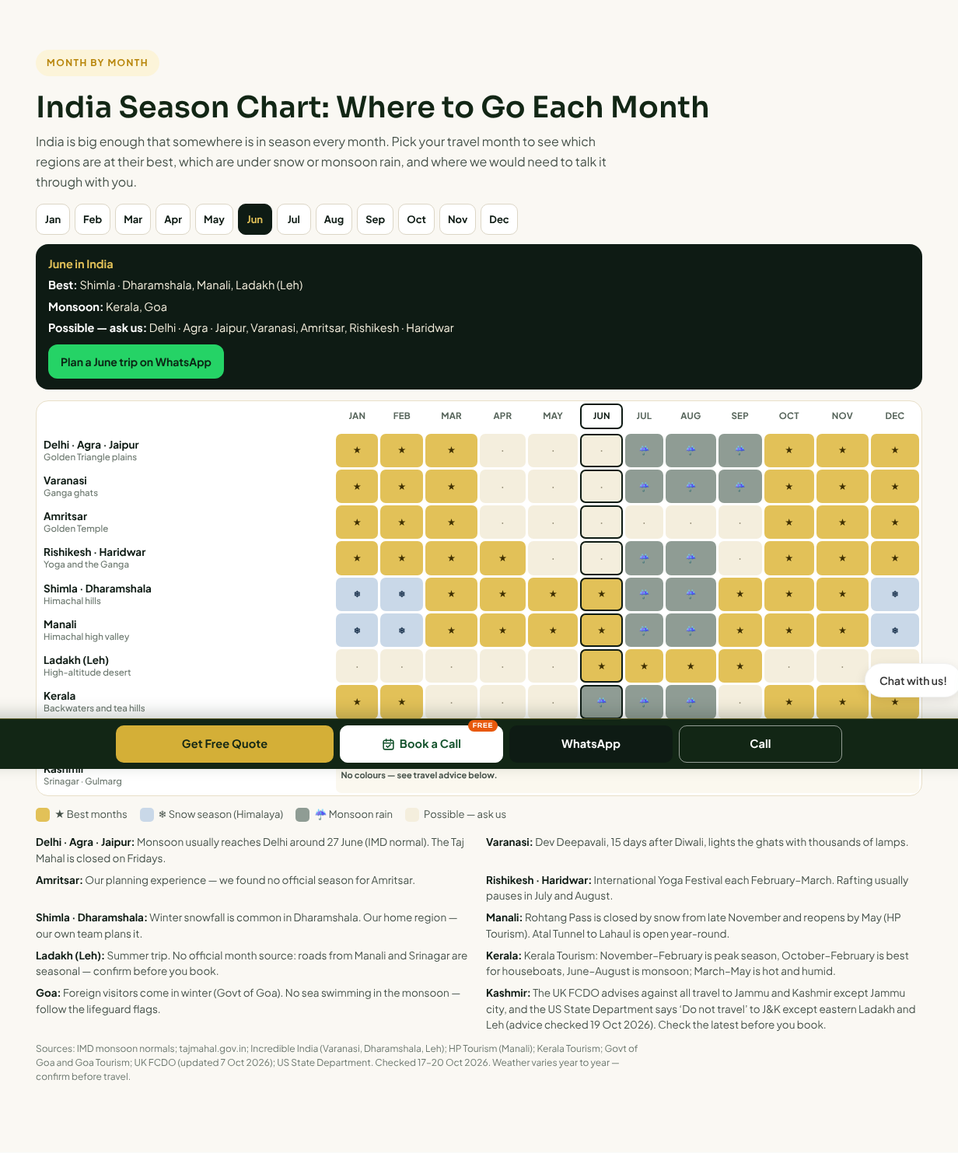
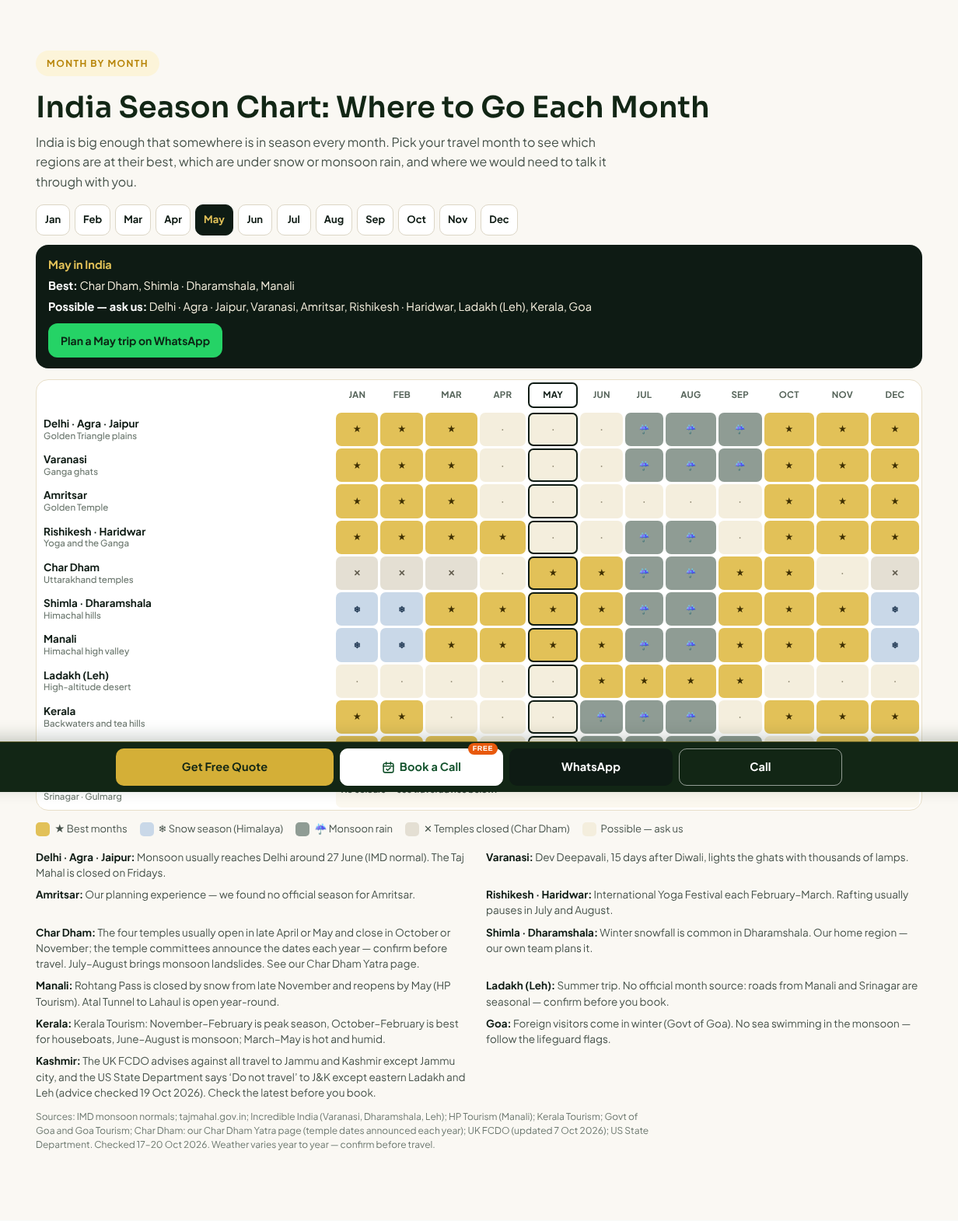
trust: char-dham row on hub season-heatmap (row 26)

Changed region(s): [[0.0, 0.031, 1.0, 0.9616]]

diff --git a/inbound-kit/trust/widgets/season-heatmap/widget.html b/inbound-kit/trust/widgets/season-heatmap/widget.html
@@ -1,1 +1,1 @@
-<!--szt:season-heatmap--><section class="lp-sec alt szt-sh" id="szt-season" style="scroll-margin-top:90px"><style>.szt-sh{font-family:'Plus Jakarta Sans',system-ui,-apple-system,'Segoe UI',sans-serif;color:#0E1B14}.szt-sh *{box-sizing:border-box}.szt-sh p:empty,.szt-sh br{display:none}.szt-sh h2{margin:4px 0 8px}.szt-sh-lead{max-width:64ch;color:#46524A;font-size:16px;line-height:1.6;margin:0 0 16px}.szt-sh-bar{display:flex;flex-wrap:wrap;gap:6px;margin:0 0 12px}.szt-sh-bar[hidden]{display:none}.szt-sh-bar button{min-width:44px;min-height:40px;padding:8px 10px;border-radius:10px;border:1px solid #DCD6C6;background:#fff;color:#0E1B14;font-family:inherit;font-weight:700;font-size:13px;line-height:1;cursor:pointer}.szt-sh-bar button[aria-pressed=true]{background:#0E1B14;color:#E2C158;border-color:#0E1B14}.szt-sh-bar button:focus-visible{outline:2px solid #B8860B;outline-offset:2px}.szt-sh-sum{background:#0E1B14;color:#F4EEDD;border-radius:16px;padding:14px 16px;margin:0 0 14px;font-size:14.5px;line-height:1.6}.szt-sh-sum[hidden]{display:none}.szt-sh-sum strong{color:#E2C158}.szt-sh-sum b{color:#fff}.szt-sh-sum div{margin-top:4px}.szt-sh-sum a{display:inline-flex;align-items:center;min-height:44px;margin-top:10px;padding:10px 16px;border-radius:12px;background:#25D366;color:#0b2414!important;font-weight:800;font-size:14px;text-decoration:none!important}.szt-sh-scroll{overflow-x:auto;-webkit-overflow-scrolling:touch;border:1px solid #E8DFC8;border-radius:16px;background:#fff;max-width:100%}.szt-sh table{border-collapse:separate;border-spacing:3px;width:100%;min-width:640px;margin:0;font-size:13px}.szt-sh th,.szt-sh td{border:0;padding:0;text-align:center;vertical-align:middle}.szt-sh thead th{background:none}.szt-sh thead th{font-size:11.5px;font-weight:800;color:#56645A;padding:6px 0;text-transform:uppercase;letter-spacing:.02em}.szt-sh tbody th{text-align:left;padding:6px 8px 6px 6px;min-width:150px;position:sticky;left:0;background:#fff;z-index:1;font-size:13.5px;line-height:1.25}.szt-sh tbody th small{display:block;font-weight:500;color:#6B776E;font-size:11.5px}.szt-sh tbody td{height:30px;border-radius:7px;font-size:11px;font-weight:800;line-height:30px}.szt-sh td.b,.szt-sh-leg .b{background:#E2C158;color:#3d2e00}.szt-sh td.s,.szt-sh-leg .s{background:#C9D8E8;color:#1d3550}.szt-sh td.m,.szt-sh-leg .m{background:#8F9C94;color:#fff}.szt-sh td.o,.szt-sh-leg .o{background:#F4EEDD;color:#8a826c}.szt-sh td.on,.szt-sh thead th.on{box-shadow:inset 0 0 0 2px #0E1B14}.szt-sh thead th.on{border-radius:7px;color:#0E1B14}.szt-sh-k td{padding:8px 6px!important;text-align:left!important;font-size:12.5px;line-height:1.45;color:#46524A;background:#FBF8EF!important;border-radius:8px}.szt-sh-leg{display:flex;flex-wrap:wrap;gap:8px 16px;margin:12px 0 0;padding:0;list-style:none;font-size:13px;color:#46524A}.szt-sh-leg li{display:flex;align-items:center;gap:6px}.szt-sh-leg i{width:18px;height:18px;border-radius:5px;display:inline-block}.szt-sh-notes{margin:14px 0 0;padding:0;list-style:none;display:grid;grid-template-columns:1fr 1fr;gap:8px 18px}.szt-sh-notes li{font-size:13.5px;line-height:1.5;color:#46524A}.szt-sh-notes b{color:#0E1B14}.szt-sh-src{font-size:12px;line-height:1.5;color:#6B776E;margin:12px 0 0;max-width:90ch}.szt-sh-vh{position:absolute!important;width:1px;height:1px;overflow:hidden;clip:rect(0 0 0 0);white-space:nowrap}@media(max-width:700px){.szt-sh-notes{grid-template-columns:1fr}.szt-sh tbody th{min-width:118px;font-size:12.5px}.szt-sh table{min-width:560px}.szt-sh-bar button{min-width:0;flex:1 0 14%;padding:8px 4px}}</style><div class="lp-wrap"><span class="lp-eyebrow">Month by month</span><h2>India Season Chart: Where to Go Each Month</h2><p class="szt-sh-lead">India is big enough that somewhere is in season every month. Pick your travel month to see which regions are at their best, which are under snow or monsoon rain, and where we would need to talk it through with you.</p><div class="szt-sh-bar" role="group" aria-label="Pick your travel month" hidden><button type="button" data-m="0" aria-pressed="false" aria-label="January">Jan</button><button type="button" data-m="1" aria-pressed="false" aria-label="February">Feb</button><button type="button" data-m="2" aria-pressed="false" aria-label="March">Mar</button><button type="button" data-m="3" aria-pressed="false" aria-label="April">Apr</button><button type="button" data-m="4" aria-pressed="false" aria-label="May">May</button><button type="button" data-m="5" aria-pressed="false" aria-label="June">Jun</button><button type="button" data-m="6" aria-pressed="false" aria-label="July">Jul</button><button type="button" data-m="7" aria-pressed="false" aria-label="August">Aug</button><button type="button" data-m="8" aria-pressed="false" aria-label="September">Sep</button><button type="button" data-m="9" aria-pressed="false" aria-label="October">Oct</button><button type="button" data-m="10" aria-pressed="false" aria-label="November">Nov</button><button type="button" data-m="11" aria-pressed="false" aria-label="December">Dec</button></div><div class="szt-sh-sum" id="szt-sh-sum" aria-live="polite" hidden></div><a id="szt-sh-wa" hidden href="https://wa.me/917087488961?text=Hello%20Suzu%20Travels%2C%20I%20would%20like%20help%20choosing%20the%20best%20months%20for%20my%20India%20trip." target="_blank" rel="noopener" data-base="https://wa.me/917087488961?text=">Plan my trip on WhatsApp</a><div class="szt-sh-scroll" role="region" aria-label="Season chart, scroll sideways" tabindex="0"><table><caption class="szt-sh-vh">Best months to visit regions of India</caption><thead><tr><th scope="col"><span class="szt-sh-vh">Region</span></th><th scope="col" data-m="0">Jan</th><th scope="col" data-m="1">Feb</th><th scope="col" data-m="2">Mar</th><th scope="col" data-m="3">Apr</th><th scope="col" data-m="4">May</th><th scope="col" data-m="5">Jun</th><th scope="col" data-m="6">Jul</th><th scope="col" data-m="7">Aug</th><th scope="col" data-m="8">Sep</th><th scope="col" data-m="9">Oct</th><th scope="col" data-m="10">Nov</th><th scope="col" data-m="11">Dec</th></tr></thead><tbody><tr data-n="Delhi · Agra · Jaipur"><th scope="row">Delhi · Agra · Jaipur<small>Golden Triangle plains</small></th><td class="b" data-m="0" title="Best">★</td><td class="b" data-m="1" title="Best">★</td><td class="b" data-m="2" title="Best">★</td><td class="o" data-m="3" title="Possible — ask us">·</td><td class="o" data-m="4" title="Possible — ask us">·</td><td class="o" data-m="5" title="Possible — ask us">·</td><td class="m" data-m="6" title="Monsoon">☔</td><td class="m" data-m="7" title="Monsoon">☔</td><td class="m" data-m="8" title="Monsoon">☔</td><td class="b" data-m="9" title="Best">★</td><td class="b" data-m="10" title="Best">★</td><td class="b" data-m="11" title="Best">★</td></tr><tr data-n="Varanasi"><th scope="row">Varanasi<small>Ganga ghats</small></th><td class="b" data-m="0" title="Best">★</td><td class="b" data-m="1" title="Best">★</td><td class="b" data-m="2" title="Best">★</td><td class="o" data-m="3" title="Possible — ask us">·</td><td class="o" data-m="4" title="Possible — ask us">·</td><td class="o" data-m="5" title="Possible — ask us">·</td><td class="m" data-m="6" title="Monsoon">☔</td><td class="m" data-m="7" title="Monsoon">☔</td><td class="m" data-m="8" title="Monsoon">☔</td><td class="b" data-m="9" title="Best">★</td><td class="b" data-m="10" title="Best">★</td><td class="b" data-m="11" title="Best">★</td></tr><tr data-n="Amritsar"><th scope="row">Amritsar<small>Golden Temple</small></th><td class="b" data-m="0" title="Best">★</td><td class="b" data-m="1" title="Best">★</td><td class="b" data-m="2" title="Best">★</td><td class="o" data-m="3" title="Possible — ask us">·</td><td class="o" data-m="4" title="Possible — ask us">·</td><td class="o" data-m="5" title="Possible — ask us">·</td><td class="o" data-m="6" title="Possible — ask us">·</td><td class="o" data-m="7" title="Possible — ask us">·</td><td class="o" data-m="8" title="Possible — ask us">·</td><td class="b" data-m="9" title="Best">★</td><td class="b" data-m="10" title="Best">★</td><td class="b" data-m="11" title="Best">★</td></tr><tr data-n="Rishikesh · Haridwar"><th scope="row">Rishikesh · Haridwar<small>Yoga and the Ganga</small></th><td class="b" data-m="0" title="Best">★</td><td class="b" data-m="1" title="Best">★</td><td class="b" data-m="2" title="Best">★</td><td class="b" data-m="3" title="Best">★</td><td class="o" data-m="4" title="Possible — ask us">·</td><td class="o" data-m="5" title="Possible — ask us">·</td><td class="m" data-m="6" title="Monsoon">☔</td><td class="m" data-m="7" title="Monsoon">☔</td><td class="o" data-m="8" title="Possible — ask us">·</td><td class="b" data-m="9" title="Best">★</td><td class="b" data-m="10" title="Best">★</td><td class="b" data-m="11" title="Best">★</td></tr><tr data-n="Shimla · Dharamshala"><th scope="row">Shimla · Dharamshala<small>Himachal hills</small></th><td class="s" data-m="0" title="Snow season">❄</td><td class="s" data-m="1" title="Snow season">❄</td><td class="b" data-m="2" title="Best">★</td><td class="b" data-m="3" title="Best">★</td><td class="b" data-m="4" title="Best">★</td><td class="b" data-m="5" title="Best">★</td><td class="m" data-m="6" title="Monsoon">☔</td><td class="m" data-m="7" title="Monsoon">☔</td><td class="b" data-m="8" title="Best">★</td><td class="b" data-m="9" title="Best">★</td><td class="b" data-m="10" title="Best">★</td><td class="s" data-m="11" title="Snow season">❄</td></tr><tr data-n="Manali"><th scope="row">Manali<small>Himachal high valley</small></th><td class="s" data-m="0" title="Snow season">❄</td><td class="s" data-m="1" title="Snow season">❄</td><td class="b" data-m="2" title="Best">★</td><td class="b" data-m="3" title="Best">★</td><td class="b" data-m="4" title="Best">★</td><td class="b" data-m="5" title="Best">★</td><td class="m" data-m="6" title="Monsoon">☔</td><td class="m" data-m="7" title="Monsoon">☔</td><td class="b" data-m="8" title="Best">★</td><td class="b" data-m="9" title="Best">★</td><td class="b" data-m="10" title="Best">★</td><td class="s" data-m="11" title="Snow season">❄</td></tr><tr data-n="Ladakh (Leh)"><th scope="row">Ladakh (Leh)<small>High-altitude desert</small></th><td class="o" data-m="0" title="Possible — ask us">·</td><td class="o" data-m="1" title="Possible — ask us">·</td><td class="o" data-m="2" title="Possible — ask us">·</td><td class="o" data-m="3" title="Possible — ask us">·</td><td class="o" data-m="4" title="Possible — ask us">·</td><td class="b" data-m="5" title="Best">★</td><td class="b" data-m="6" title="Best">★</td><td class="b" data-m="7" title="Best">★</td><td class="b" data-m="8" title="Best">★</td><td class="o" data-m="9" title="Possible — ask us">·</td><td class="o" data-m="10" title="Possible — ask us">·</td><td class="o" data-m="11" title="Possible — ask us">·</td></tr><tr data-n="Kerala"><th scope="row">Kerala<small>Backwaters and tea hills</small></th><td class="b" data-m="0" title="Best">★</td><td class="b" data-m="1" title="Best">★</td><td class="o" data-m="2" title="Possible — ask us">·</td><td class="o" data-m="3" title="Possible — ask us">·</td><td class="o" data-m="4" title="Possible — ask us">·</td><td class="m" data-m="5" title="Monsoon">☔</td><td class="m" data-m="6" title="Monsoon">☔</td><td class="m" data-m="7" title="Monsoon">☔</td><td class="o" data-m="8" title="Possible — ask us">·</td><td class="b" data-m="9" title="Best">★</td><td class="b" data-m="10" title="Best">★</td><td class="b" data-m="11" title="Best">★</td></tr><tr data-n="Goa"><th scope="row">Goa<small>Beaches</small></th><td class="b" data-m="0" title="Best">★</td><td class="b" data-m="1" title="Best">★</td><td class="b" data-m="2" title="Best">★</td><td class="o" data-m="3" title="Possible — ask us">·</td><td class="o" data-m="4" title="Possible — ask us">·</td><td class="m" data-m="5" title="Monsoon">☔</td><td class="m" data-m="6" title="Monsoon">☔</td><td class="m" data-m="7" title="Monsoon">☔</td><td class="m" data-m="8" title="Monsoon">☔</td><td class="o" data-m="9" title="Possible — ask us">·</td><td class="b" data-m="10" title="Best">★</td><td class="b" data-m="11" title="Best">★</td></tr><tr class="szt-sh-k"><th scope="row">Kashmir<small>Srinagar · Gulmarg</small></th><td colspan="12">No colours — see travel advice below.</td></tr></tbody></table></div><ul class="szt-sh-leg"><li><i class="b"></i>★ Best months</li><li><i class="s"></i>❄ Snow season (Himalaya)</li><li><i class="m"></i>☔ Monsoon rain</li><li><i class="o"></i>Possible — ask us</li></ul><ul class="szt-sh-notes"><li><b>Delhi · Agra · Jaipur:</b> Monsoon usually reaches Delhi around 27 June (IMD normal). The Taj Mahal is closed on Fridays.</li><li><b>Varanasi:</b> Dev Deepavali, 15 days after Diwali, lights the ghats with thousands of lamps.</li><li><b>Amritsar:</b> Our planning experience — we found no official season for Amritsar.</li><li><b>Rishikesh · Haridwar:</b> International Yoga Festival each February–March. Rafting usually pauses in July and August.</li><li><b>Shimla · Dharamshala:</b> Winter snowfall is common in Dharamshala. Our home region — our own team plans it.</li><li><b>Manali:</b> Rohtang Pass is closed by snow from late November and reopens by May (HP Tourism). Atal Tunnel to Lahaul is open year-round.</li><li><b>Ladakh (Leh):</b> Summer trip. No official month source: roads from Manali and Srinagar are seasonal — confirm before you book.</li><li><b>Kerala:</b> Kerala Tourism: November–February is peak season, October–February is best for houseboats, June–August is monsoon; March–May is hot and humid.</li><li><b>Goa:</b> Foreign visitors come in winter (Govt of Goa). No sea swimming in the monsoon — follow the lifeguard flags.</li><li><b>Kashmir:</b> The UK FCDO advises against all travel to Jammu and Kashmir except Jammu city, and the US State Department says ‘Do not travel’ to J&amp;K except eastern Ladakh and Leh (advice checked 19 Oct 2026). Check the latest before you book.</li></ul><p class="szt-sh-src">Sources: IMD monsoon normals; tajmahal.gov.in; Incredible India (Varanasi, Dharamshala, Leh); HP Tourism (Manali); Kerala Tourism; Govt of Goa and Goa Tourism; UK FCDO (updated 7 Oct 2026); US State Department. Checked 17–20 Oct 2026. Weather varies year to year — confirm before travel.</p><script>(function(){var D={"Delhi · Agra · Jaipur":"bbbooommmbbb","Varanasi":"bbbooommmbbb","Amritsar":"bbboooooobbb","Rishikesh · Haridwar":"bbbboommobbb","Shimla · Dharamshala":"ssbbbbmmbbbs","Manali":"ssbbbbmmbbbs","Ladakh (Leh)":"ooooobbbbooo","Kerala":"bbooommmobbb","Goa":"bbboommmmobb"};var F=["January","February","March","April","May","June","July","August","September","October","November","December"];var L={b:"Best",s:"Snow season",m:"Monsoon",o:"Possible — ask us"};var R=document.getElementById("szt-season");if(!R){return;}var bar=R.querySelector(".szt-sh-bar"),sum=document.getElementById("szt-sh-sum"),wa=document.getElementById("szt-sh-wa");if(!bar){return;}if(!sum){return;}function pick(m){var bs=bar.querySelectorAll("button");for(var i=0;i<bs.length;i++){bs[i].setAttribute("aria-pressed",String(i===m));}var cs=R.querySelectorAll("[data-m]");for(var j=0;j<cs.length;j++){if(cs[j].tagName!=="BUTTON"){cs[j].classList.toggle("on",cs[j].getAttribute("data-m")===String(m));}}var g={b:[],s:[],m:[],o:[]};for(var k in D){if(D.hasOwnProperty(k)){g[D[k].charAt(m)].push(k);}}sum.textContent="";var hd=document.createElement("strong");hd.textContent=F[m]+" in India";sum.appendChild(hd);var o=["b","s","m","o"];for(var x=0;x<o.length;x++){if(g[o[x]].length){var dv=document.createElement("div"),bb=document.createElement("b");bb.textContent=L[o[x]]+": ";dv.appendChild(bb);dv.appendChild(document.createTextNode(g[o[x]].join(", ")));sum.appendChild(dv);}}if(wa){var t="Hello Suzu Travels, I am thinking of travelling to India in "+F[m]+". Best for that month on your chart: "+(g.b.join(", ")||"none")+". Can you suggest a plan?";wa.href=wa.getAttribute("data-base")+encodeURIComponent(t);wa.textContent="Plan a "+F[m]+" trip on WhatsApp";sum.appendChild(wa);wa.hidden=false;}}bar.addEventListener("click",function(e){var b=e.target.closest("button");if(b){pick(parseInt(b.getAttribute("data-m"),10));}});bar.hidden=false;sum.hidden=false;pick(new Date().getMonth());})();</script></div></section><!--/szt:season-heatmap-->
+<!--szt:season-heatmap--><section class="lp-sec alt szt-sh" id="szt-season" style="scroll-margin-top:90px"><style>.szt-sh{font-family:'Plus Jakarta Sans',system-ui,-apple-system,'Segoe UI',sans-serif;color:#0E1B14}.szt-sh *{box-sizing:border-box}.szt-sh p:empty,.szt-sh br{display:none}.szt-sh h2{margin:4px 0 8px}.szt-sh-lead{max-width:64ch;color:#46524A;font-size:16px;line-height:1.6;margin:0 0 16px}.szt-sh-bar{display:flex;flex-wrap:wrap;gap:6px;margin:0 0 12px}.szt-sh-bar[hidden]{display:none}.szt-sh-bar button{min-width:44px;min-height:40px;padding:8px 10px;border-radius:10px;border:1px solid #DCD6C6;background:#fff;color:#0E1B14;font-family:inherit;font-weight:700;font-size:13px;line-height:1;cursor:pointer}.szt-sh-bar button[aria-pressed=true]{background:#0E1B14;color:#E2C158;border-color:#0E1B14}.szt-sh-bar button:focus-visible{outline:2px solid #B8860B;outline-offset:2px}.szt-sh-sum{background:#0E1B14;color:#F4EEDD;border-radius:16px;padding:14px 16px;margin:0 0 14px;font-size:14.5px;line-height:1.6}.szt-sh-sum[hidden]{display:none}.szt-sh-sum strong{color:#E2C158}.szt-sh-sum b{color:#fff}.szt-sh-sum div{margin-top:4px}.szt-sh-sum a{display:inline-flex;align-items:center;min-height:44px;margin-top:10px;padding:10px 16px;border-radius:12px;background:#25D366;color:#0b2414!important;font-weight:800;font-size:14px;text-decoration:none!important}.szt-sh-scroll{overflow-x:auto;-webkit-overflow-scrolling:touch;border:1px solid #E8DFC8;border-radius:16px;background:#fff;max-width:100%}.szt-sh table{border-collapse:separate;border-spacing:3px;width:100%;min-width:640px;margin:0;font-size:13px}.szt-sh th,.szt-sh td{border:0;padding:0;text-align:center;vertical-align:middle}.szt-sh thead th{background:none}.szt-sh thead th{font-size:11.5px;font-weight:800;color:#56645A;padding:6px 0;text-transform:uppercase;letter-spacing:.02em}.szt-sh tbody th{text-align:left;padding:6px 8px 6px 6px;min-width:150px;position:sticky;left:0;background:#fff;z-index:1;font-size:13.5px;line-height:1.25}.szt-sh tbody th small{display:block;font-weight:500;color:#6B776E;font-size:11.5px}.szt-sh tbody td{height:30px;border-radius:7px;font-size:11px;font-weight:800;line-height:30px}.szt-sh td.b,.szt-sh-leg .b{background:#E2C158;color:#3d2e00}.szt-sh td.s,.szt-sh-leg .s{background:#C9D8E8;color:#1d3550}.szt-sh td.m,.szt-sh-leg .m{background:#8F9C94;color:#fff}.szt-sh td.o,.szt-sh-leg .o{background:#F4EEDD;color:#8a826c}.szt-sh td.c,.szt-sh-leg .c{background:#E4DFD3;color:#5f5a4c}.szt-sh td.on,.szt-sh thead th.on{box-shadow:inset 0 0 0 2px #0E1B14}.szt-sh thead th.on{border-radius:7px;color:#0E1B14}.szt-sh-k td{padding:8px 6px!important;text-align:left!important;font-size:12.5px;line-height:1.45;color:#46524A;background:#FBF8EF!important;border-radius:8px}.szt-sh-leg{display:flex;flex-wrap:wrap;gap:8px 16px;margin:12px 0 0;padding:0;list-style:none;font-size:13px;color:#46524A}.szt-sh-leg li{display:flex;align-items:center;gap:6px}.szt-sh-leg i{width:18px;height:18px;border-radius:5px;display:inline-block}.szt-sh-notes{margin:14px 0 0;padding:0;list-style:none;display:grid;grid-template-columns:1fr 1fr;gap:8px 18px}.szt-sh-notes li{font-size:13.5px;line-height:1.5;color:#46524A}.szt-sh-notes b{color:#0E1B14}.szt-sh-src{font-size:12px;line-height:1.5;color:#6B776E;margin:12px 0 0;max-width:90ch}.szt-sh-vh{position:absolute!important;width:1px;height:1px;overflow:hidden;clip:rect(0 0 0 0);white-space:nowrap}@media(max-width:700px){.szt-sh-notes{grid-template-columns:1fr}.szt-sh tbody th{min-width:118px;font-size:12.5px}.szt-sh table{min-width:560px}.szt-sh-bar button{min-width:0;flex:1 0 14%;padding:8px 4px}}</style><div class="lp-wrap"><span class="lp-eyebrow">Month by month</span><h2>India Season Chart: Where to Go Each Month</h2><p class="szt-sh-lead">India is big enough that somewhere is in season every month. Pick your travel month to see which regions are at their best, which are under snow or monsoon rain, and where we would need to talk it through with you.</p><div class="szt-sh-bar" role="group" aria-label="Pick your travel month" hidden><button type="button" data-m="0" aria-pressed="false" aria-label="January">Jan</button><button type="button" data-m="1" aria-pressed="false" aria-label="February">Feb</button><button type="button" data-m="2" aria-pressed="false" aria-label="March">Mar</button><button type="button" data-m="3" aria-pressed="false" aria-label="April">Apr</button><button type="button" data-m="4" aria-pressed="false" aria-label="May">May</button><button type="button" data-m="5" aria-pressed="false" aria-label="June">Jun</button><button type="button" data-m="6" aria-pressed="false" aria-label="July">Jul</button><button type="button" data-m="7" aria-pressed="false" aria-label="August">Aug</button><button type="button" data-m="8" aria-pressed="false" aria-label="September">Sep</button><button type="button" data-m="9" aria-pressed="false" aria-label="October">Oct</button><button type="button" data-m="10" aria-pressed="false" aria-label="November">Nov</button><button type="button" data-m="11" aria-pressed="false" aria-label="December">Dec</button></div><div class="szt-sh-sum" id="szt-sh-sum" aria-live="polite" hidden></div><a id="szt-sh-wa" hidden href="https://wa.me/917087488961?text=Hello%20Suzu%20Travels%2C%20I%20would%20like%20help%20choosing%20the%20best%20months%20for%20my%20India%20trip." target="_blank" rel="noopener" data-base="https://wa.me/917087488961?text=">Plan my trip on WhatsApp</a><div class="szt-sh-scroll" role="region" aria-label="Season chart, scroll sideways" tabindex="0"><table><caption class="szt-sh-vh">Best months to visit regions of India</caption><thead><tr><th scope="col"><span class="szt-sh-vh">Region</span></th><th scope="col" data-m="0">Jan</th><th scope="col" data-m="1">Feb</th><th scope="col" data-m="2">Mar</th><th scope="col" data-m="3">Apr</th><th scope="col" data-m="4">May</th><th scope="col" data-m="5">Jun</th><th scope="col" data-m="6">Jul</th><th scope="col" data-m="7">Aug</th><th scope="col" data-m="8">Sep</th><th scope="col" data-m="9">Oct</th><th scope="col" data-m="10">Nov</th><th scope="col" data-m="11">Dec</th></tr></thead><tbody><tr data-n="Delhi · Agra · Jaipur"><th scope="row">Delhi · Agra · Jaipur<small>Golden Triangle plains</small></th><td class="b" data-m="0" title="Best">★</td><td class="b" data-m="1" title="Best">★</td><td class="b" data-m="2" title="Best">★</td><td class="o" data-m="3" title="Possible — ask us">·</td><td class="o" data-m="4" title="Possible — ask us">·</td><td class="o" data-m="5" title="Possible — ask us">·</td><td class="m" data-m="6" title="Monsoon">☔</td><td class="m" data-m="7" title="Monsoon">☔</td><td class="m" data-m="8" title="Monsoon">☔</td><td class="b" data-m="9" title="Best">★</td><td class="b" data-m="10" title="Best">★</td><td class="b" data-m="11" title="Best">★</td></tr><tr data-n="Varanasi"><th scope="row">Varanasi<small>Ganga ghats</small></th><td class="b" data-m="0" title="Best">★</td><td class="b" data-m="1" title="Best">★</td><td class="b" data-m="2" title="Best">★</td><td class="o" data-m="3" title="Possible — ask us">·</td><td class="o" data-m="4" title="Possible — ask us">·</td><td class="o" data-m="5" title="Possible — ask us">·</td><td class="m" data-m="6" title="Monsoon">☔</td><td class="m" data-m="7" title="Monsoon">☔</td><td class="m" data-m="8" title="Monsoon">☔</td><td class="b" data-m="9" title="Best">★</td><td class="b" data-m="10" title="Best">★</td><td class="b" data-m="11" title="Best">★</td></tr><tr data-n="Amritsar"><th scope="row">Amritsar<small>Golden Temple</small></th><td class="b" data-m="0" title="Best">★</td><td class="b" data-m="1" title="Best">★</td><td class="b" data-m="2" title="Best">★</td><td class="o" data-m="3" title="Possible — ask us">·</td><td class="o" data-m="4" title="Possible — ask us">·</td><td class="o" data-m="5" title="Possible — ask us">·</td><td class="o" data-m="6" title="Possible — ask us">·</td><td class="o" data-m="7" title="Possible — ask us">·</td><td class="o" data-m="8" title="Possible — ask us">·</td><td class="b" data-m="9" title="Best">★</td><td class="b" data-m="10" title="Best">★</td><td class="b" data-m="11" title="Best">★</td></tr><tr data-n="Rishikesh · Haridwar"><th scope="row">Rishikesh · Haridwar<small>Yoga and the Ganga</small></th><td class="b" data-m="0" title="Best">★</td><td class="b" data-m="1" title="Best">★</td><td class="b" data-m="2" title="Best">★</td><td class="b" data-m="3" title="Best">★</td><td class="o" data-m="4" title="Possible — ask us">·</td><td class="o" data-m="5" title="Possible — ask us">·</td><td class="m" data-m="6" title="Monsoon">☔</td><td class="m" data-m="7" title="Monsoon">☔</td><td class="o" data-m="8" title="Possible — ask us">·</td><td class="b" data-m="9" title="Best">★</td><td class="b" data-m="10" title="Best">★</td><td class="b" data-m="11" title="Best">★</td></tr><tr data-n="Char Dham"><th scope="row">Char Dham<small>Uttarakhand temples</small></th><td class="c" data-m="0" title="Temples closed">✕</td><td class="c" data-m="1" title="Temples closed">✕</td><td class="c" data-m="2" title="Temples closed">✕</td><td class="o" data-m="3" title="Possible — ask us">·</td><td class="b" data-m="4" title="Best">★</td><td class="b" data-m="5" title="Best">★</td><td class="m" data-m="6" title="Monsoon">☔</td><td class="m" data-m="7" title="Monsoon">☔</td><td class="b" data-m="8" title="Best">★</td><td class="b" data-m="9" title="Best">★</td><td class="o" data-m="10" title="Possible — ask us">·</td><td class="c" data-m="11" title="Temples closed">✕</td></tr><tr data-n="Shimla · Dharamshala"><th scope="row">Shimla · Dharamshala<small>Himachal hills</small></th><td class="s" data-m="0" title="Snow season">❄</td><td class="s" data-m="1" title="Snow season">❄</td><td class="b" data-m="2" title="Best">★</td><td class="b" data-m="3" title="Best">★</td><td class="b" data-m="4" title="Best">★</td><td class="b" data-m="5" title="Best">★</td><td class="m" data-m="6" title="Monsoon">☔</td><td class="m" data-m="7" title="Monsoon">☔</td><td class="b" data-m="8" title="Best">★</td><td class="b" data-m="9" title="Best">★</td><td class="b" data-m="10" title="Best">★</td><td class="s" data-m="11" title="Snow season">❄</td></tr><tr data-n="Manali"><th scope="row">Manali<small>Himachal high valley</small></th><td class="s" data-m="0" title="Snow season">❄</td><td class="s" data-m="1" title="Snow season">❄</td><td class="b" data-m="2" title="Best">★</td><td class="b" data-m="3" title="Best">★</td><td class="b" data-m="4" title="Best">★</td><td class="b" data-m="5" title="Best">★</td><td class="m" data-m="6" title="Monsoon">☔</td><td class="m" data-m="7" title="Monsoon">☔</td><td class="b" data-m="8" title="Best">★</td><td class="b" data-m="9" title="Best">★</td><td class="b" data-m="10" title="Best">★</td><td class="s" data-m="11" title="Snow season">❄</td></tr><tr data-n="Ladakh (Leh)"><th scope="row">Ladakh (Leh)<small>High-altitude desert</small></th><td class="o" data-m="0" title="Possible — ask us">·</td><td class="o" data-m="1" title="Possible — ask us">·</td><td class="o" data-m="2" title="Possible — ask us">·</td><td class="o" data-m="3" title="Possible — ask us">·</td><td class="o" data-m="4" title="Possible — ask us">·</td><td class="b" data-m="5" title="Best">★</td><td class="b" data-m="6" title="Best">★</td><td class="b" data-m="7" title="Best">★</td><td class="b" data-m="8" title="Best">★</td><td class="o" data-m="9" title="Possible — ask us">·</td><td class="o" data-m="10" title="Possible — ask us">·</td><td class="o" data-m="11" title="Possible — ask us">·</td></tr><tr data-n="Kerala"><th scope="row">Kerala<small>Backwaters and tea hills</small></th><td class="b" data-m="0" title="Best">★</td><td class="b" data-m="1" title="Best">★</td><td class="o" data-m="2" title="Possible — ask us">·</td><td class="o" data-m="3" title="Possible — ask us">·</td><td class="o" data-m="4" title="Possible — ask us">·</td><td class="m" data-m="5" title="Monsoon">☔</td><td class="m" data-m="6" title="Monsoon">☔</td><td class="m" data-m="7" title="Monsoon">☔</td><td class="o" data-m="8" title="Possible — ask us">·</td><td class="b" data-m="9" title="Best">★</td><td class="b" data-m="10" title="Best">★</td><td class="b" data-m="11" title="Best">★</td></tr><tr data-n="Goa"><th scope="row">Goa<small>Beaches</small></th><td class="b" data-m="0" title="Best">★</td><td class="b" data-m="1" title="Best">★</td><td class="b" data-m="2" title="Best">★</td><td class="o" data-m="3" title="Possible — ask us">·</td><td class="o" data-m="4" title="Possible — ask us">·</td><td class="m" data-m="5" title="Monsoon">☔</td><td class="m" data-m="6" title="Monsoon">☔</td><td class="m" data-m="7" title="Monsoon">☔</td><td class="m" data-m="8" title="Monsoon">☔</td><td class="o" data-m="9" title="Possible — ask us">·</td><td class="b" data-m="10" title="Best">★</td><td class="b" data-m="11" title="Best">★</td></tr><tr class="szt-sh-k"><th scope="row">Kashmir<small>Srinagar · Gulmarg</small></th><td colspan="12">No colours — see travel advice below.</td></tr></tbody></table></div><ul class="szt-sh-leg"><li><i class="b"></i>★ Best months</li><li><i class="s"></i>❄ Snow season (Himalaya)</li><li><i class="m"></i>☔ Monsoon rain</li><li><i class="c"></i>✕ Temples closed (Char Dham)</li><li><i class="o"></i>Possible — ask us</li></ul><ul class="szt-sh-notes"><li><b>Delhi · Agra · Jaipur:</b> Monsoon usually reaches Delhi around 27 June (IMD normal). The Taj Mahal is closed on Fridays.</li><li><b>Varanasi:</b> Dev Deepavali, 15 days after Diwali, lights the ghats with thousands of lamps.</li><li><b>Amritsar:</b> Our planning experience — we found no official season for Amritsar.</li><li><b>Rishikesh · Haridwar:</b> International Yoga Festival each February–March. Rafting usually pauses in July and August.</li><li><b>Char Dham:</b> The four temples usually open in late April or May and close in October or November; the temple committees announce the dates each year — confirm before travel. July–August brings monsoon landslides. See <a href="/char-dham-yatra-for-nri/">our Char Dham Yatra page</a>.</li><li><b>Shimla · Dharamshala:</b> Winter snowfall is common in Dharamshala. Our home region — our own team plans it.</li><li><b>Manali:</b> Rohtang Pass is closed by snow from late November and reopens by May (HP Tourism). Atal Tunnel to Lahaul is open year-round.</li><li><b>Ladakh (Leh):</b> Summer trip. No official month source: roads from Manali and Srinagar are seasonal — confirm before you book.</li><li><b>Kerala:</b> Kerala Tourism: November–February is peak season, October–February is best for houseboats, June–August is monsoon; March–May is hot and humid.</li><li><b>Goa:</b> Foreign visitors come in winter (Govt of Goa). No sea swimming in the monsoon — follow the lifeguard flags.</li><li><b>Kashmir:</b> The UK FCDO advises against all travel to Jammu and Kashmir except Jammu city, and the US State Department says ‘Do not travel’ to J&amp;K except eastern Ladakh and Leh (advice checked 19 Oct 2026). Check the latest before you book.</li></ul><p class="szt-sh-src">Sources: IMD monsoon normals; tajmahal.gov.in; Incredible India (Varanasi, Dharamshala, Leh); HP Tourism (Manali); Kerala Tourism; Govt of Goa and Goa Tourism; Char Dham: our Char Dham Yatra page (temple dates announced each year); UK FCDO (updated 7 Oct 2026); US State Department. Checked 17–20 Oct 2026. Weather varies year to year — confirm before travel.</p><script>(function(){var D={"Delhi · Agra · Jaipur":"bbbooommmbbb","Varanasi":"bbbooommmbbb","Amritsar":"bbboooooobbb","Rishikesh · Haridwar":"bbbboommobbb","Char Dham":"cccobbmmbboc","Shimla · Dharamshala":"ssbbbbmmbbbs","Manali":"ssbbbbmmbbbs","Ladakh (Leh)":"ooooobbbbooo","Kerala":"bbooommmobbb","Goa":"bbboommmmobb"};var F=["January","February","March","April","May","June","July","August","September","October","November","December"];var L={b:"Best",s:"Snow season",m:"Monsoon",o:"Possible — ask us",c:"Temples closed"};var R=document.getElementById("szt-season");if(!R){return;}var bar=R.querySelector(".szt-sh-bar"),sum=document.getElementById("szt-sh-sum"),wa=document.getElementById("szt-sh-wa");if(!bar){return;}if(!sum){return;}function pick(m){var bs=bar.querySelectorAll("button");for(var i=0;i<bs.length;i++){bs[i].setAttribute("aria-pressed",String(i===m));}var cs=R.querySelectorAll("[data-m]");for(var j=0;j<cs.length;j++){if(cs[j].tagName!=="BUTTON"){cs[j].classList.toggle("on",cs[j].getAttribute("data-m")===String(m));}}var g={b:[],s:[],m:[],c:[],o:[]};for(var k in D){if(D.hasOwnProperty(k)){g[D[k].charAt(m)].push(k);}}sum.textContent="";var hd=document.createElement("strong");hd.textContent=F[m]+" in India";sum.appendChild(hd);var o=["b","s","m","c","o"];for(var x=0;x<o.length;x++){if(g[o[x]].length){var dv=document.createElement("div"),bb=document.createElement("b");bb.textContent=L[o[x]]+": ";dv.appendChild(bb);dv.appendChild(document.createTextNode(g[o[x]].join(", ")));sum.appendChild(dv);}}if(wa){var t="Hello Suzu Travels, I am thinking of travelling to India in "+F[m]+". Best for that month on your chart: "+(g.b.join(", ")||"none")+". Can you suggest a plan?";wa.href=wa.getAttribute("data-base")+encodeURIComponent(t);wa.textContent="Plan a "+F[m]+" trip on WhatsApp";sum.appendChild(wa);wa.hidden=false;}}bar.addEventListener("click",function(e){var b=e.target.closest("button");if(b){pick(parseInt(b.getAttribute("data-m"),10));}});bar.hidden=false;sum.hidden=false;pick(new Date().getMonth());})();</script></div></section><!--/szt:season-heatmap-->

diff --git a/inbound-kit/trust/widgets/season-heatmap/build.py b/inbound-kit/trust/widgets/season-heatmap/build.py
@@ -6,12 +6,12 @@ Months not covered by a source are 'possible — ask us' (never 'avoid' without 
 dated advisory line. Inline JS: no ampersand, no double slash; works with JS off (full grid, toolbar hidden)."""
 import os, json
 
-B, S, M, O = 'b', 's', 'm', 'o'   # best / snow season / monsoon / possible — ask us
+B, S, M, O, C = 'b', 's', 'm', 'o', 'c'   # best / snow season / monsoon / possible — ask us / temples closed (Char Dham only)
 MON = ['Jan', 'Feb', 'Mar', 'Apr', 'May', 'Jun', 'Jul', 'Aug', 'Sep', 'Oct', 'Nov', 'Dec']
 FULL = ['January', 'February', 'March', 'April', 'May', 'June', 'July', 'August', 'September', 'October', 'November', 'December']
 
-def row(best=(), snow=(), mon=()):
-    return ''.join(B if m in best else S if m in snow else M if m in mon else O for m in range(1, 13))
+def row(best=(), snow=(), mon=(), closed=()):
+    return ''.join(B if m in best else S if m in snow else M if m in mon else C if m in closed else O for m in range(1, 13))
 
 ROWS = [
  ('Delhi · Agra · Jaipur', 'Golden Triangle plains', row(best=(10, 11, 12, 1, 2, 3), mon=(7, 8, 9)),
@@ -22,6 +22,9 @@ ROWS = [
   'Our planning experience — we found no official season for Amritsar.'),
  ('Rishikesh · Haridwar', 'Yoga and the Ganga', row(best=(10, 11, 12, 1, 2, 3, 4), mon=(7, 8)),
   'International Yoga Festival each February–March. Rafting usually pauses in July and August.'),
+ ('Char Dham', 'Uttarakhand temples', row(best=(5, 6, 9, 10), mon=(7, 8), closed=(12, 1, 2, 3)),
+  'The four temples usually open in late April or May and close in October or November; the temple committees announce the dates each year — '
+  'confirm before travel. July–August brings monsoon landslides. See <a href="/char-dham-yatra-for-nri/">our Char Dham Yatra page</a>.'),
  ('Shimla · Dharamshala', 'Himachal hills', row(best=(3, 4, 5, 6, 9, 10, 11), snow=(12, 1, 2), mon=(7, 8)),
   'Winter snowfall is common in Dharamshala. Our home region — our own team plans it.'),
  ('Manali', 'Himachal high valley', row(best=(3, 4, 5, 6, 9, 10, 11), snow=(12, 1, 2), mon=(7, 8)),
@@ -36,9 +39,9 @@ ROWS = [
 KASHMIR = ('The UK FCDO advises against all travel to Jammu and Kashmir except Jammu city, and the US State Department says '
            '‘Do not travel’ to J&amp;K except eastern Ladakh and Leh (advice checked 19 Oct 2026). Check the latest before you book.')
 SRC = ('Sources: IMD monsoon normals; tajmahal.gov.in; Incredible India (Varanasi, Dharamshala, Leh); HP Tourism (Manali); '
-       'Kerala Tourism; Govt of Goa and Goa Tourism; UK FCDO (updated 7 Oct 2026); US State Department. Checked 17–20 Oct 2026. '
+       'Kerala Tourism; Govt of Goa and Goa Tourism; Char Dham: our Char Dham Yatra page (temple dates announced each year); UK FCDO (updated 7 Oct 2026); US State Department. Checked 17–20 Oct 2026. '
        'Weather varies year to year — confirm before travel.')
-LBL = {B: 'Best', S: 'Snow season', M: 'Monsoon', O: 'Possible — ask us'}
+LBL = {B: 'Best', S: 'Snow season', M: 'Monsoon', O: 'Possible — ask us', C: 'Temples closed'}
 WA = 'https://wa.me/917087488961?text='
 WA_DEFAULT = 'Hello%20Suzu%20Travels%2C%20I%20would%20like%20help%20choosing%20the%20best%20months%20for%20my%20India%20trip.'
 
@@ -59,7 +62,7 @@ CSS = (".szt-sh{font-family:'Plus Jakarta Sans',system-ui,-apple-system,'Segoe U
        ".szt-sh tbody th{text-align:left;padding:6px 8px 6px 6px;min-width:150px;position:sticky;left:0;background:#fff;z-index:1;font-size:13.5px;line-height:1.25}"
        ".szt-sh tbody th small{display:block;font-weight:500;color:#6B776E;font-size:11.5px}"
        ".szt-sh tbody td{height:30px;border-radius:7px;font-size:11px;font-weight:800;line-height:30px}"
-       ".szt-sh td.b,.szt-sh-leg .b{background:#E2C158;color:#3d2e00}.szt-sh td.s,.szt-sh-leg .s{background:#C9D8E8;color:#1d3550}.szt-sh td.m,.szt-sh-leg .m{background:#8F9C94;color:#fff}.szt-sh td.o,.szt-sh-leg .o{background:#F4EEDD;color:#8a826c}"
+       ".szt-sh td.b,.szt-sh-leg .b{background:#E2C158;color:#3d2e00}.szt-sh td.s,.szt-sh-leg .s{background:#C9D8E8;color:#1d3550}.szt-sh td.m,.szt-sh-leg .m{background:#8F9C94;color:#fff}.szt-sh td.o,.szt-sh-leg .o{background:#F4EEDD;color:#8a826c}.szt-sh td.c,.szt-sh-leg .c{background:#E4DFD3;color:#5f5a4c}"
        ".szt-sh td.on,.szt-sh thead th.on{box-shadow:inset 0 0 0 2px #0E1B14}.szt-sh thead th.on{border-radius:7px;color:#0E1B14}"
        ".szt-sh-k td{padding:8px 6px!important;text-align:left!important;font-size:12.5px;line-height:1.45;color:#46524A;background:#FBF8EF!important;border-radius:8px}"
        ".szt-sh-leg{display:flex;flex-wrap:wrap;gap:8px 16px;margin:12px 0 0;padding:0;list-style:none;font-size:13px;color:#46524A}"
@@ -71,7 +74,7 @@ CSS = (".szt-sh{font-family:'Plus Jakarta Sans',system-ui,-apple-system,'Segoe U
        "@media(max-width:700px){.szt-sh-notes{grid-template-columns:1fr}.szt-sh tbody th{min-width:118px;font-size:12.5px}.szt-sh table{min-width:560px}.szt-sh-bar button{min-width:0;flex:1 0 14%;padding:8px 4px}}")
 
 def cell(c, m):
-    return '<td class="%s" data-m="%d" title="%s">%s</td>' % (c, m, LBL[c], {B: '\u2605', S: '\u2744', M: '\u2614', O: '\u00b7'}[c])
+    return '<td class="%s" data-m="%d" title="%s">%s</td>' % (c, m, LBL[c], {B: '\u2605', S: '\u2744', M: '\u2614', O: '\u00b7', C: '\u2715'}[c])
 
 def html():
     head = '<thead><tr><th scope="col"><span class="szt-sh-vh">Region</span></th>' + ''.join(
@@ -85,18 +88,18 @@ def html():
     summ = ('<div class="szt-sh-sum" id="szt-sh-sum" aria-live="polite" hidden></div>'
             '<a id="szt-sh-wa" hidden href="' + WA + WA_DEFAULT + '" target="_blank" rel="noopener" data-base="' + WA + '">Plan my trip on WhatsApp</a>')
     leg = ('<ul class="szt-sh-leg"><li><i class="b"></i>★ Best months</li><li><i class="s"></i>❄ Snow season (Himalaya)</li>'
-           '<li><i class="m"></i>☔ Monsoon rain</li><li><i class="o"></i>Possible — ask us</li></ul>')
+           '<li><i class="m"></i>☔ Monsoon rain</li><li><i class="c"></i>✕ Temples closed (Char Dham)</li><li><i class="o"></i>Possible — ask us</li></ul>')
     notes = '<ul class="szt-sh-notes">' + ''.join('<li><b>%s:</b> %s</li>' % (n, t) for n, _, _, t in ROWS) + '<li><b>Kashmir:</b> ' + KASHMIR + '</li></ul>'
     data = json.dumps({n: r for n, _, r, _ in ROWS}, ensure_ascii=False, separators=(',', ':'))
     js = ('<script>(function(){var D=' + data + ';var F=' + json.dumps(FULL, separators=(',', ':')) + ';'
-          'var L={b:"Best",s:"Snow season",m:"Monsoon",o:"Possible — ask us"};'
+          'var L={b:"Best",s:"Snow season",m:"Monsoon",o:"Possible — ask us",c:"Temples closed"};'
           'var R=document.getElementById("szt-season");if(!R){return;}'
           'var bar=R.querySelector(".szt-sh-bar"),sum=document.getElementById("szt-sh-sum"),wa=document.getElementById("szt-sh-wa");'
           'if(!bar){return;}if(!sum){return;}'
           'function pick(m){var bs=bar.querySelectorAll("button");for(var i=0;i<bs.length;i++){bs[i].setAttribute("aria-pressed",String(i===m));}'
           'var cs=R.querySelectorAll("[data-m]");for(var j=0;j<cs.length;j++){if(cs[j].tagName!=="BUTTON"){cs[j].classList.toggle("on",cs[j].getAttribute("data-m")===String(m));}}'
-          'var g={b:[],s:[],m:[],o:[]};for(var k in D){if(D.hasOwnProperty(k)){g[D[k].charAt(m)].push(k);}}'
-          'sum.textContent="";var hd=document.createElement("strong");hd.textContent=F[m]+" in India";sum.appendChild(hd);var o=["b","s","m","o"];'
+          'var g={b:[],s:[],m:[],c:[],o:[]};for(var k in D){if(D.hasOwnProperty(k)){g[D[k].charAt(m)].push(k);}}'
+          'sum.textContent="";var hd=document.createElement("strong");hd.textContent=F[m]+" in India";sum.appendChild(hd);var o=["b","s","m","c","o"];'
           'for(var x=0;x<o.length;x++){if(g[o[x]].length){var dv=document.createElement("div"),bb=document.createElement("b");bb.textContent=L[o[x]]+": ";dv.appendChild(bb);dv.appendChild(document.createTextNode(g[o[x]].join(", ")));sum.appendChild(dv);}}'
           'if(wa){var t="Hello Suzu Travels, I am thinking of travelling to India in "+F[m]+". Best for that month on your chart: "+(g.b.join(", ")||"none")+". Can you suggest a plan?";'
           'wa.href=wa.getAttribute("data-base")+encodeURIComponent(t);wa.textContent="Plan a "+F[m]+" trip on WhatsApp";sum.appendChild(wa);wa.hidden=false;}}'
